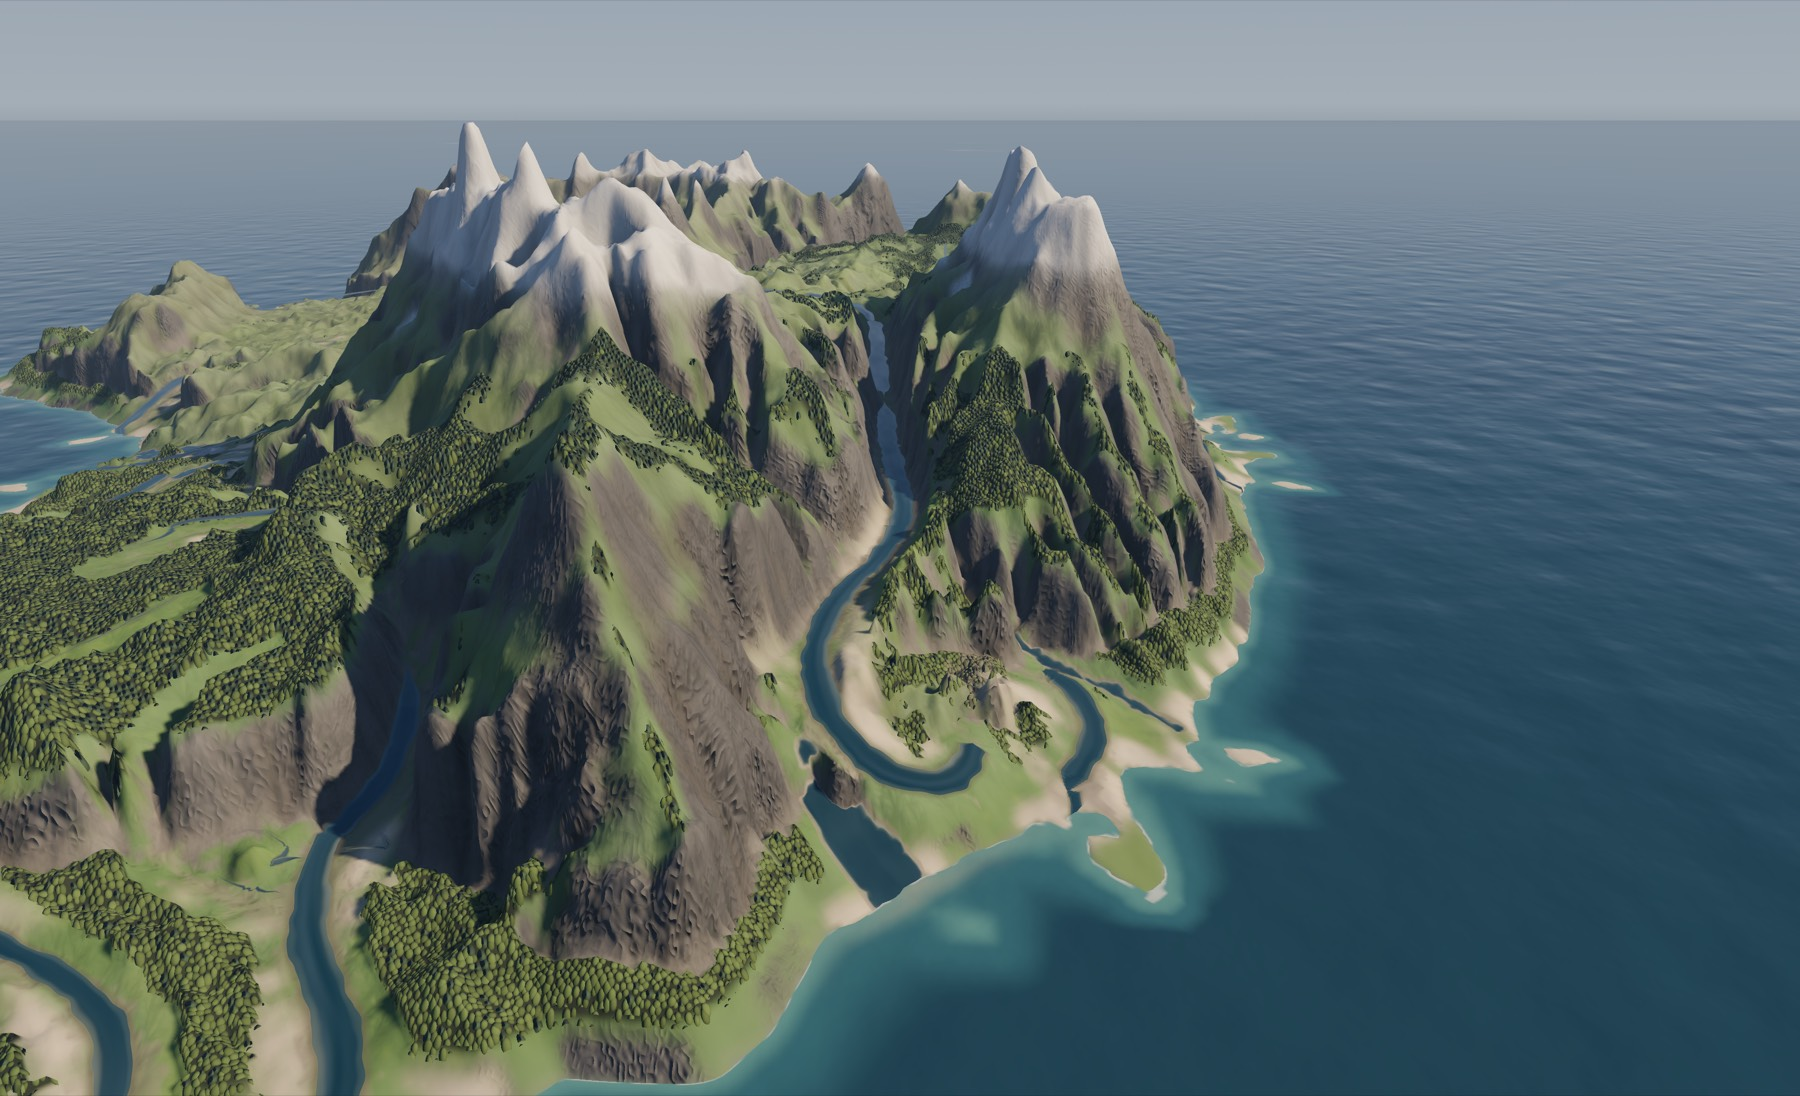
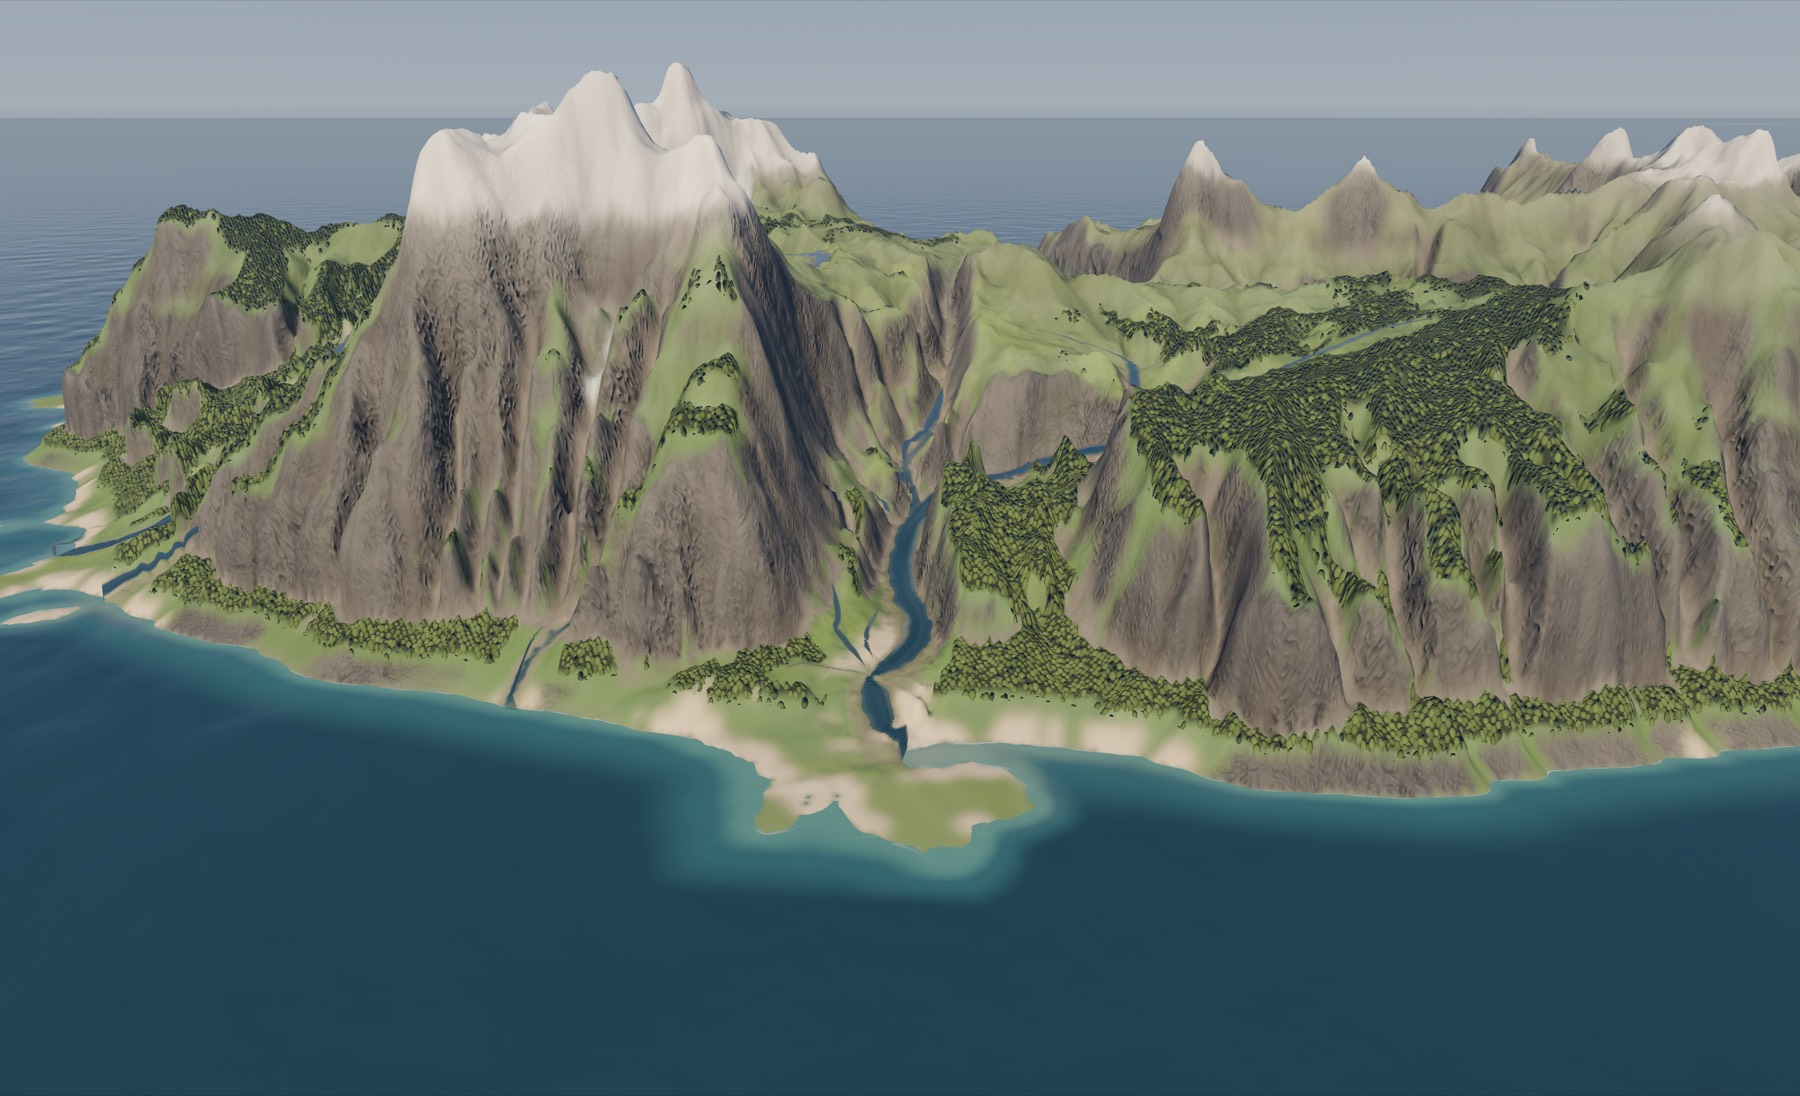
docs(glacier): screenshots on d32e915 incl. the ice-free arm (#174)

diff --git a/docs/glacier-measurements.md b/docs/glacier-measurements.md
@@ -1275,3 +1275,20 @@ Handvoll Säulen, s. o. (Begrenzer verworfen). Weitere Ersparnisse, die in diese
 Zahlen schon stecken: Wurzel statt `pow` für den Flussexponenten 0,5 (`pow` war der
 größte Einzelposten), ein `exp` je Teilschritt für das Nährgebiet, zwei
 Kastensummen statt 81 Lesezugriffen je Zelle für die Schleifspur.
+
+### Bild (maximiert, `RS_STEP=20000`, `RS_CAMERA=valley` und `diorama`, Seeds 1337 / 42 / 20)
+
+`docs/screenshots/zielbild-174/glacier-horns_seed*_{valley,diorama}_{vorher,nachher}.jpg`
+(vorher = Stand `72b7b6b`, also vor Gürtel-Kopplung und Mündungs-Korrekturen;
+nachher = dieser Zweig auf `d32e915`), dazu `…_eisfrei.jpg` (Seeds 1337 / 20,
+`iceEnabled = false`, sonst gleiche Basis). Ehrliche Bewertung:
+
+* **Seed 20: klar besser.** Die weiße Tafel mit Zackenrand und senkrechten Wänden im
+  Norden ist weg; an ihrer Stelle stehen Spitzen und Hörner mit Schnee, Eis in den
+  Mulden darunter. Gipfel gleich dem eisfreien Arm.
+* **Seed 1337: besser.** Im Tal-Bild stehen auf dem Hauptkamm Grate und Hörner
+  statt einer durchgehenden weißen Tafel. Im Diorama bleibt die lange Wand im
+  Nordwesten — sie steht genauso im eisfreien Arm, s. o. (Generierung).
+* **Seed 42** unverändert (kaum Eis, höchster Punkt 0,66 statt 0,67 eisfrei).
+* Schnee und Eis sind im Render weiter beide weiß; von den Karen sieht man die
+  Felsrückwände, nicht das Eis.
